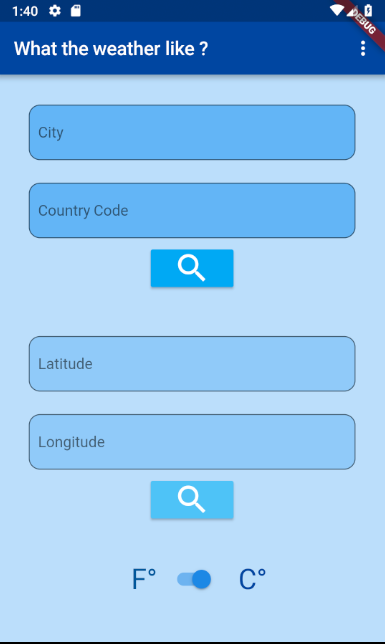
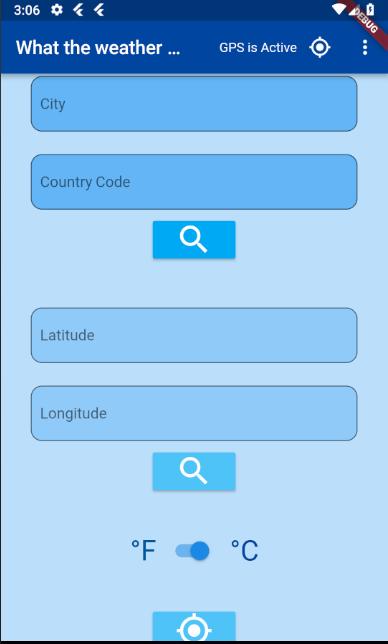
update readme and picture

diff --git a/README.md b/README.md
@@ -4,10 +4,12 @@
 
 You can search the weather with the name of the city, or with coordinates. 
 You can choose degrees Celsius or degrees Fahrenheit for your results, and also the number of days you want.
+This app allows to get notifications for the weather, where you are, each day.
 
 ## Display
 <img src='HomePage.png' width='350'>
 <img src='ResultScreen.png' width='350'>
+<img src='NotifScreen.png' width='350'>
 
 ## IMPROVEMENTS :
 * Weather by geolocation
